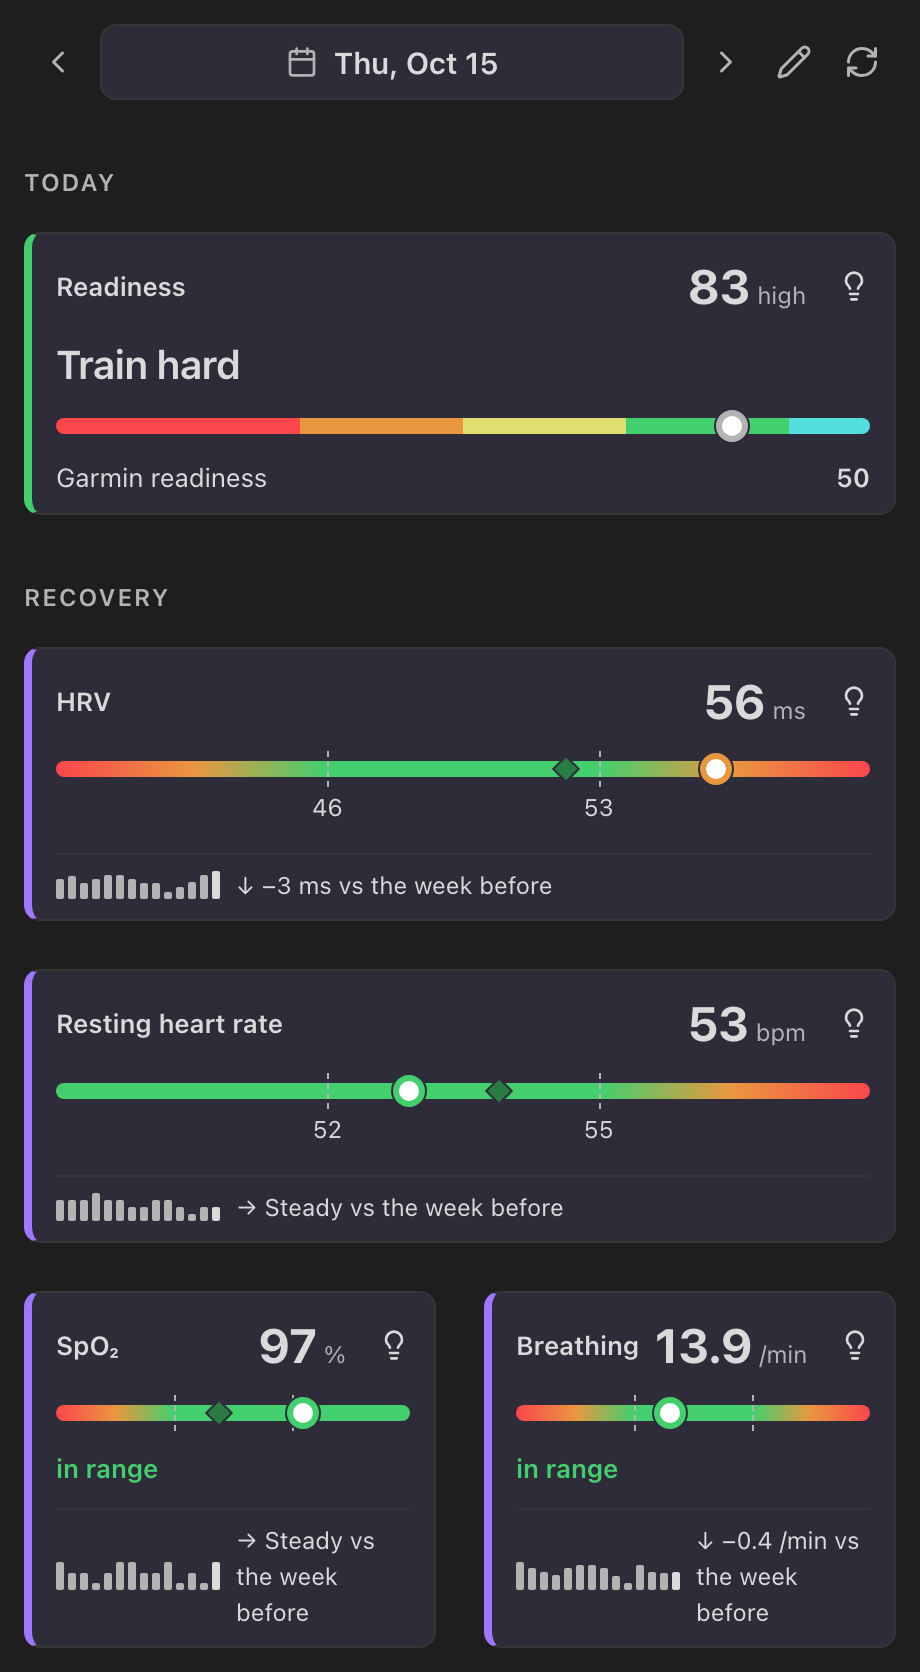
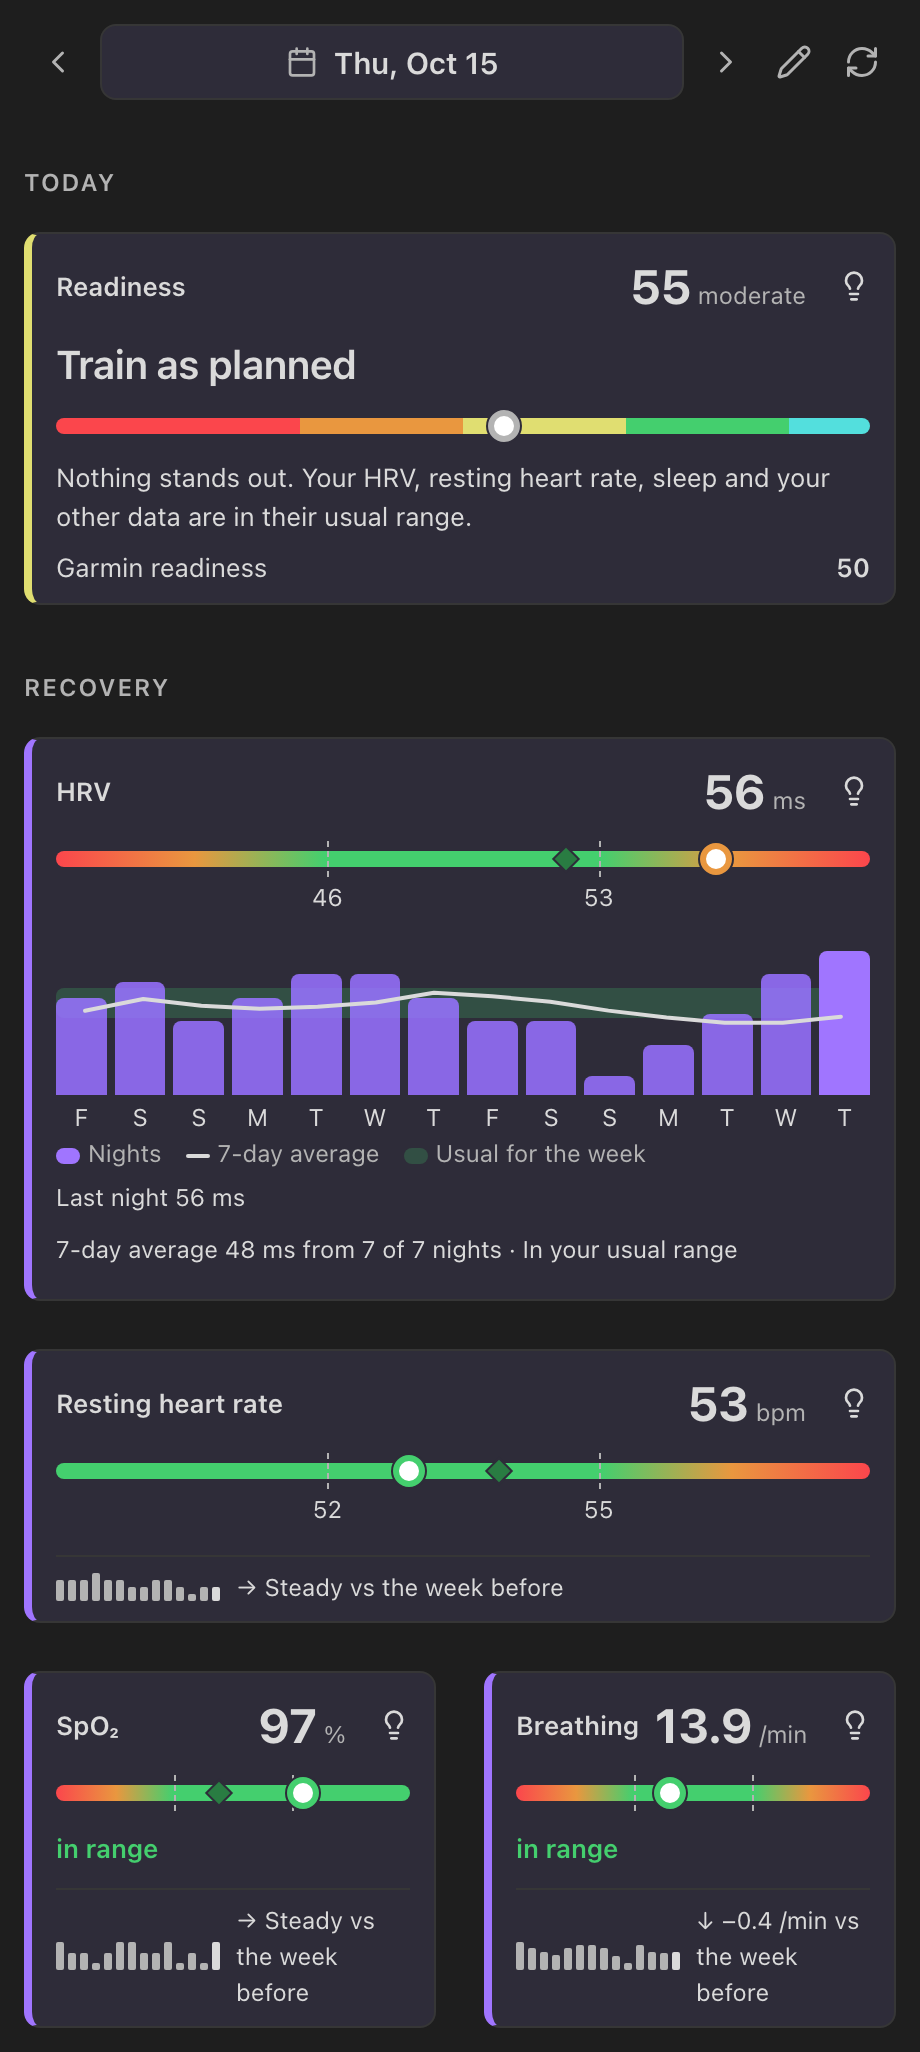
Re-render the panel screenshots with the HRV week chart

diff --git a/testUtils/screenshots/scenes.ts b/testUtils/screenshots/scenes.ts
@@ -44,7 +44,7 @@ export const SCENES: Scene[] = [
 		daysBack: 7,
 		cards: ["today", "hrv", "resting_hr", "spo2", "respiration_rate"],
 		open: [],
-		expect: [".ghs-readiness-bar", ".ghs-range-labelled"],
+		expect: [".ghs-readiness-bar", ".ghs-range-labelled", ".ghs-hrvweek"],
 	},
 	{
 		id: "panel-today-dark",
@@ -54,7 +54,7 @@ export const SCENES: Scene[] = [
 		daysBack: 7,
 		cards: ["today", "hrv", "resting_hr", "spo2", "respiration_rate"],
 		open: [],
-		expect: [".ghs-readiness-bar"],
+		expect: [".ghs-readiness-bar", ".ghs-hrvweek"],
 	},
 	{
 		id: "panel-sleep",
